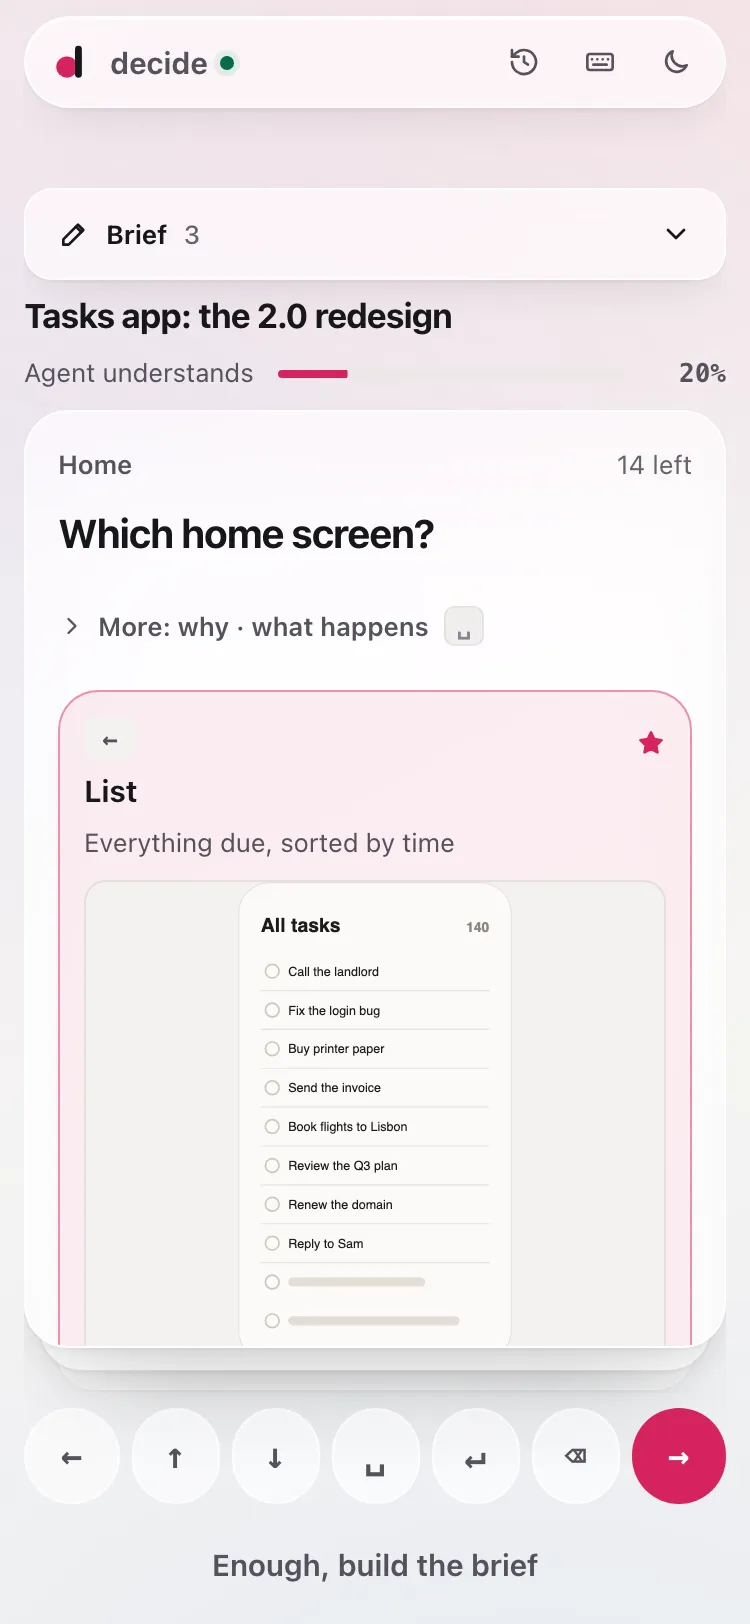
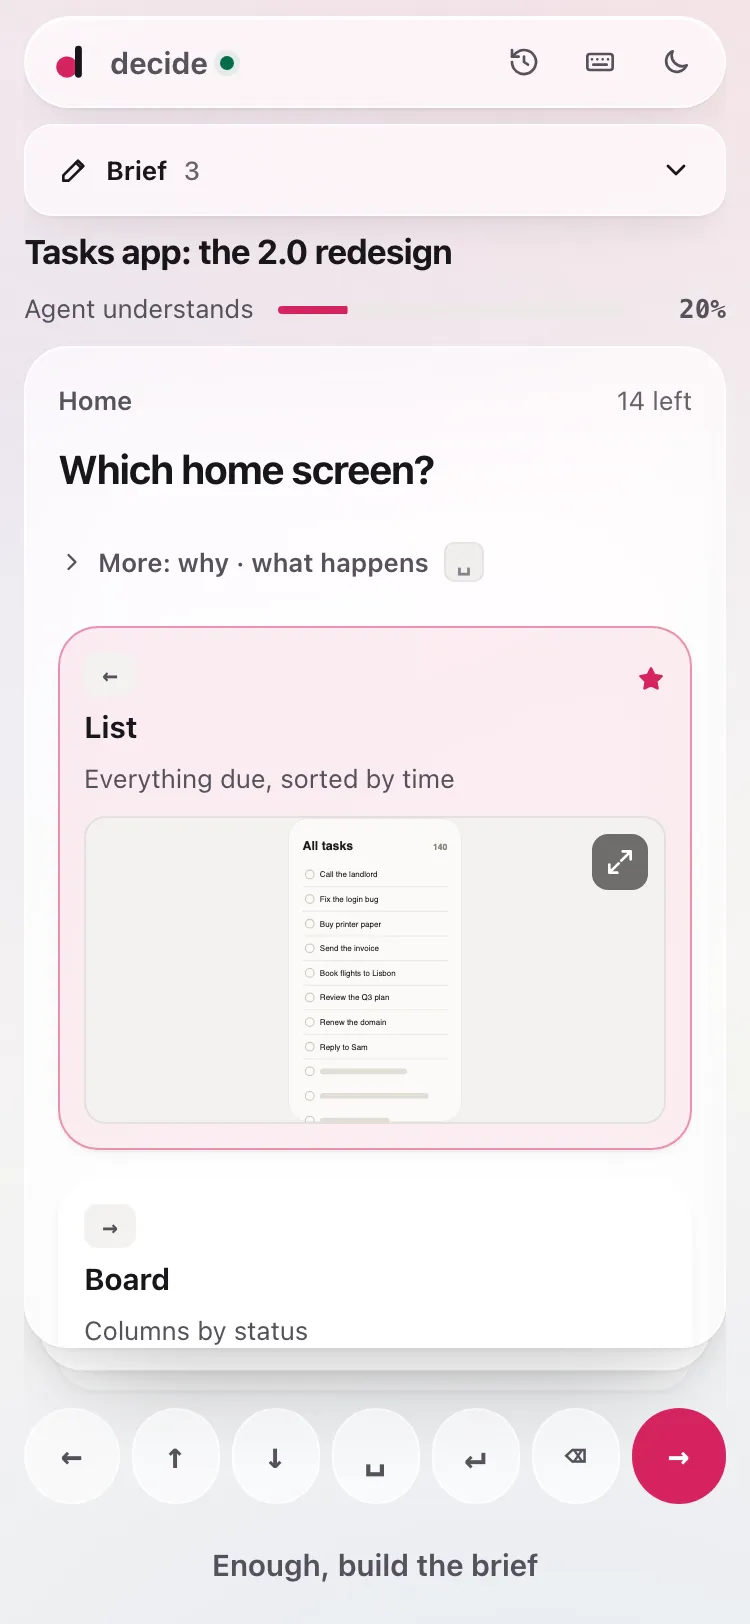
swipe: fewer scrolls in a card, none sideways
- the deck gets more of the window: the title shares a line with the counters, the gaps are tighter, the card is 720 wide
- media shrinks with the height of the window instead of pushing the answers out of the card
- with a keyboard the card no longer repeats "own answer": the strip under the deck has it
- code, diffs and tables in a card open to their full height and wrap, so the card is the only box that scrolls
- long words wrap in the title, the answers and the brief
- the zoom button's touch area no longer makes a table scroll sideways on a phone
- swipe screens made again

diff --git a/ui/css/swipe.css b/ui/css/swipe.css
@@ -360,3 +360,48 @@ body.swipe-mode .wrap { max-width: 1240px; padding: 0 var(--space-5, 20px); }
   .sw-key:not(.left, .right) kbd { display: none; }
   .sw-key:not(.left, .right) .sw-key-ic { display: grid; }
 }
+
+/* ---- fewer scrolls. A card that scrolls inside itself is the last resort, so the page gives the deck
+   all the room it has, media shrinks with the height of the window, and a card has one scroller at
+   most: itself, never a box inside it, and never sideways. */
+.sw {
+  --sw-w: 720px;
+  /* what is left of the window once the bars, the title, the answers and the keys took their share */
+  --sw-media: clamp(120px, calc(100vh - 660px), 280px);
+  --sw-media: clamp(120px, calc(100dvh - 660px), 280px);
+  --sw-side-img: clamp(84px, calc(100vh - 660px), 150px);
+  --sw-side-img: clamp(84px, calc(100dvh - 660px), 150px);
+}
+.sw-top, .sw-stack, .sw-banner { width: min(var(--sw-w), 100%); }
+.sw-stage { gap: var(--space-3, 12px); padding: var(--space-3, 12px) 0; }
+.sw-stage > .eyebrow { margin-bottom: 0; }
+/* the title and the counters share a line, the confidence bar runs under both */
+.sw-top { grid-template-columns: minmax(0, 1fr) auto; align-items: center; column-gap: var(--space-3, 12px); }
+.sw-conf { grid-column: 1 / -1; grid-row: 2; }
+.sw-meta { grid-column: 2; grid-row: 1; margin: 0; justify-content: flex-end; }
+.sw-foot .sw-stop { min-height: 32px; padding-block: 4px; }
+
+.sw-card-body { overflow-x: hidden; overflow-wrap: anywhere; }
+.sw-sides { grid-template-columns: repeat(2, minmax(0, 1fr)); }
+.sw-side, .sw-side-pick { grid-template-columns: minmax(0, 1fr); }
+.sw-card .media .preview iframe { max-height: calc(var(--sw-media) + 60px); }
+.sw-card .media .gallery img, .sw-card .media .video .shot-btn img { max-height: min(240px, var(--sw-media)); }
+.sw-card-body > .media .cmp-img, .sw-card-body > .media .video video { max-height: var(--sw-media); }
+.sw-side-img { max-height: var(--sw-side-img); }
+.sw-card-body > .media .chart svg { width: 100%; max-height: calc(var(--sw-media) + 40px); }
+.sw-card-body { gap: var(--space-3, 12px); }
+/* with a keyboard the strip under the deck already says "own answer": the card does not repeat it */
+@media (min-width: 901px) and (hover: hover) {
+  .sw-card .sw-own { display: none; }
+}
+/* code, diffs and tables open to their full height and wrap their lines: the card scrolls, they don't */
+.sw-card :is(.code pre, .table-wrap, .diff-scroll, .md-table, .diagram) { max-height: none; overflow: clip; }
+.sw-card .code .ln { white-space: pre-wrap; overflow-wrap: anywhere; }
+.sw-card :is(table.data, .md-table table) :is(th, td) { position: static; white-space: normal; overflow-wrap: anywhere; }
+
+@media (max-width: 900px) {
+  .sw-top { grid-template-columns: minmax(0, 1fr); }
+  .sw-foot .sw-stop { min-height: 44px; }
+}
+.sw-card .diff-grid thead th { position: static; }
+.sw-brief { overflow-x: hidden; overflow-wrap: anywhere; }

diff --git a/ui/css/media.css b/ui/css/media.css
@@ -272,6 +272,6 @@ table.data tbody tr:hover td { background: var(--surface-2); }
   .pv-mark, .preview-open { display: inline-flex; align-items: center; }
   /* the small corner buttons keep their look and get a thumb-sized hit area */
   .media-zoom::after { content: ""; position: absolute; inset: -8px; }
-  .code.has-zoom > .media-zoom::after, .table-wrap.has-zoom > .media-zoom::after, .media.compact .media-zoom::after { inset: -11px -10px; }
+  .code.has-zoom > .media-zoom::after, .table-wrap.has-zoom > .media-zoom::after, .media.compact .media-zoom::after { inset: -11px -4px -11px -16px; } /* grows inward: past the right edge it would make the box scroll sideways */
   .pv-w { min-height: 44px; min-width: 44px; }
 }
